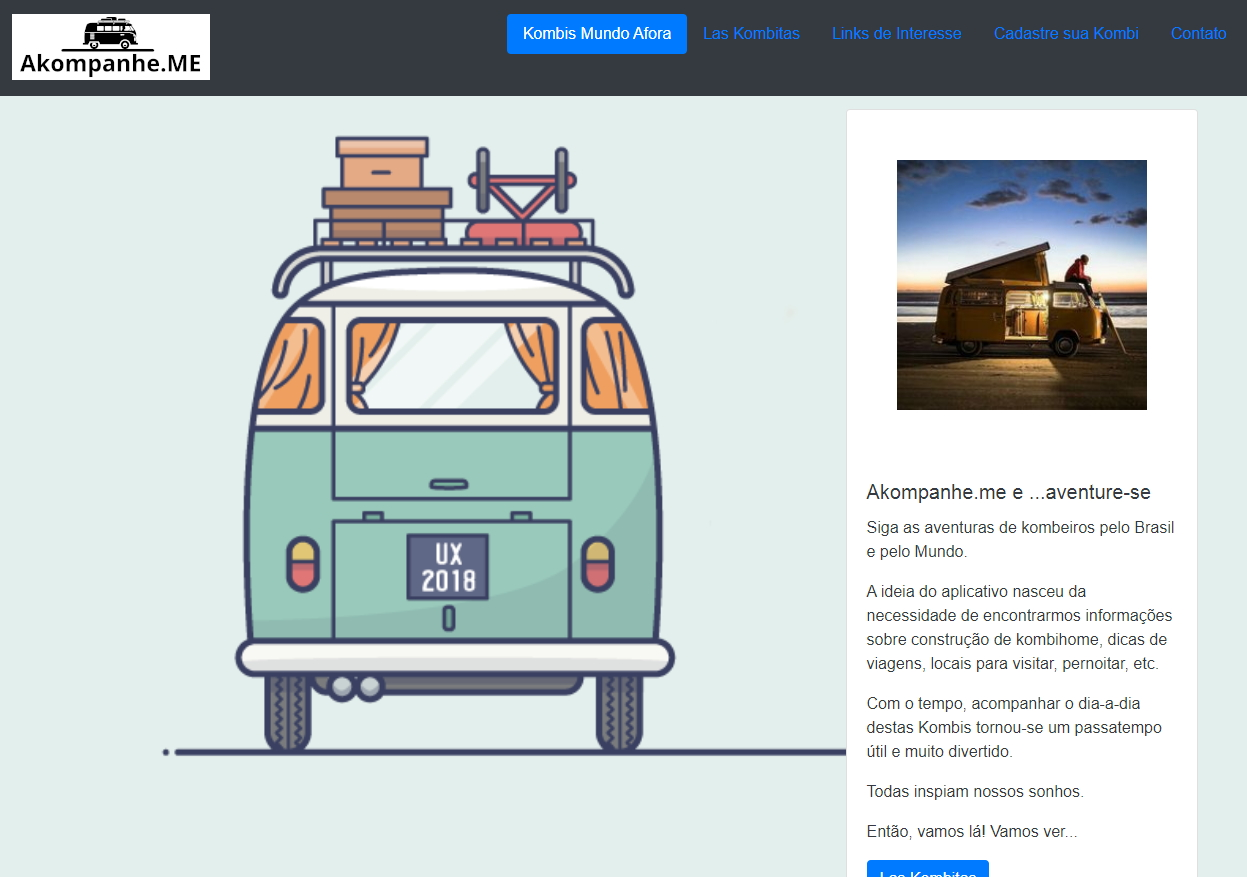
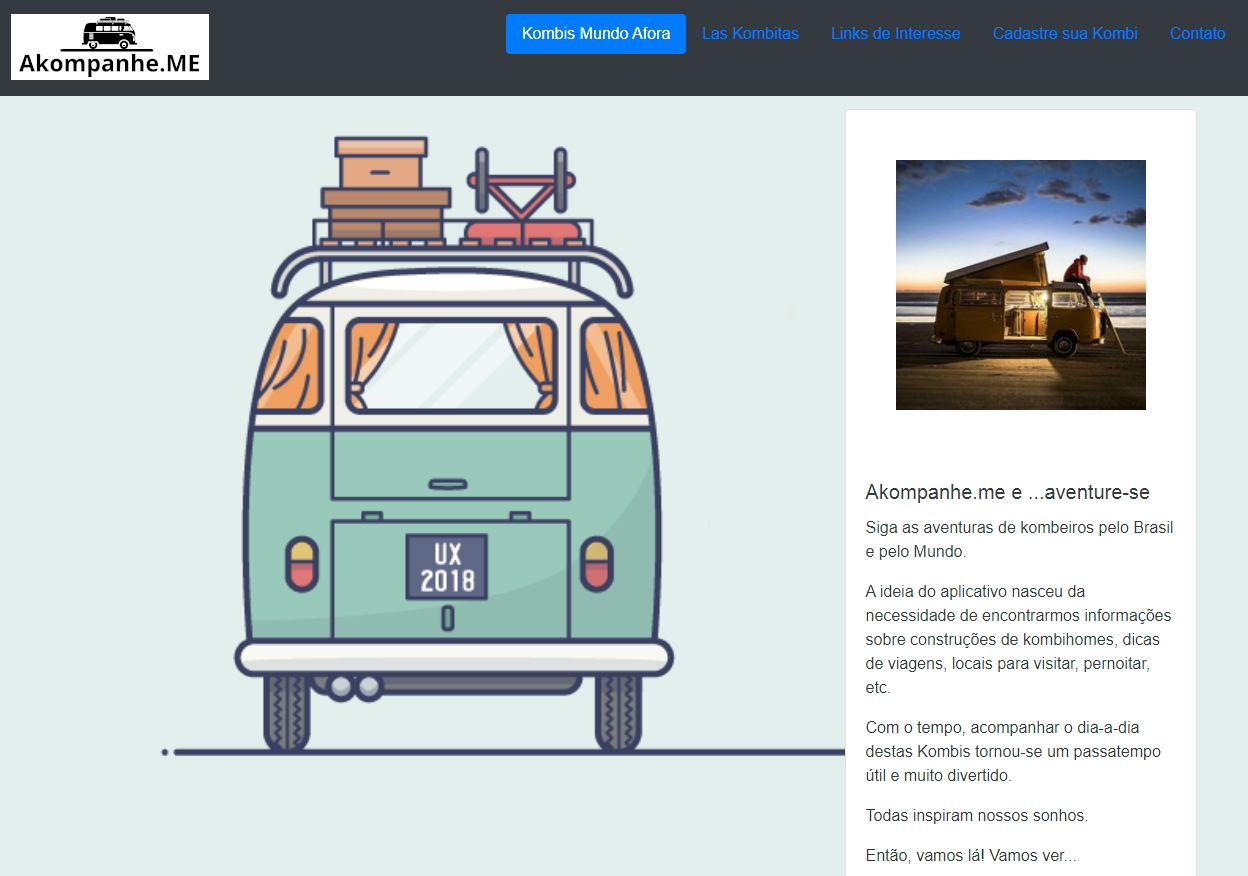
ajustes 01

diff --git a/templates/kombitas.html b/templates/kombitas.html
@@ -15,25 +15,25 @@
 			<div class="card">
 			    <img class="card-img-top" src="static/kombis/maria_maria.jpg" alt="Imagem de capa do card">
 			    <div class="card-body">
-				    <h5 class="card-title">Título do card</h5>
-				    <p class="card-text">Este é um card maior com suporte a texto embaixo, que funciona como uma introdução a um conteúdo adicional. Este conteúdo é um pouco maior, para demonstração.</p>
-				    <p class="card-text"><small class="text-muted">Atualizados 3 minutos atrás</small></p>
+				    <h5 class="card-title">Maria Maria</h5>
+				    <p class="card-text">Mussum Ipsum, cacilds vidis litro abertis. Si u mundo tá muito paradis? Toma um mé que o mundo vai girarzis! Posuere libero varius. Nullam a nisl ut ante blandit hendrerit. Aenean sit amet nisi. Interessantiss quisso pudia ce receita de bolis, mais bolis eu num gostis. Suco de cevadiss deixa as pessoas mais interessantis.</p>
+				    <button type="button" class="btn btn-primary btn-sm">Maria Maria</button>
 			    </div>
 			</div>
 			<div class="card">
 			    <img class="card-img-top" src="static/kombis/joaquina.jpg" alt="Imagem de capa do card">
 			    <div class="card-body">
-			        <h5 class="card-title">Título do card</h5>
-			        <p class="card-text">Este é um card com suporte a texto embaixo, que funciona como uma introdução a um conteúdo adicional.</p>
-			        <p class="card-text"><small class="text-muted">Atualizados 3 minutos atrás</small></p>
+			        <h5 class="card-title">Joaquina</h5>
+			        <p class="card-text">Mussum Ipsum, cacilds vidis litro abertis. Paisis, filhis, espiritis santis. Interessantiss quisso pudia ce receita de bolis, mais bolis eu num gostis. Suco de cevadiss deixa as pessoas mais interessantis. Aenean aliquam molestie leo, vitae iaculis nisl.</p>
+			        <button type="button" class="btn btn-primary btn-sm">Joaquina</button>
 			    </div>
 			</div>
 			<div class="card">
 			    <img class="card-img-top" src="static/kombis/maria_antonia.jpg" alt="Imagem de capa do card">
 			    <div class="card-body">
-			        <h5 class="card-title">Título do card</h5>
-			        <p class="card-text">Este é um card maior com suporte a texto embaixo, que funciona como uma introdução a um conteúdo adicional. Este card tem o conteúdo ainda maior que o primeiro, para mostrar a altura igual, em ação.</p>
-			        <p class="card-text"><small class="text-muted">Atualizados 3 minutos atrás</small></p>
+			        <h5 class="card-title">Maria Antônia</h5>
+			        <p class="card-text">Mussum Ipsum, cacilds vidis litro abertis. In elementis mé pra quem é amistosis quis leo. Praesent malesuada urna nisi, quis volutpat erat hendrerit non. Nam vulputate dapibus. Copo furadis é disculpa de bebadis, arcu quam euismod magna. Quem num gosta di mim que vai caçá sua turmis!</p>
+			        <button type="button" class="btn btn-primary btn-sm">Maria Antônia</button>
 			    </div>
 			 </div>
 		</div>

diff --git a/templates/cadastro.html b/templates/cadastro.html
@@ -32,7 +32,7 @@
 
 					<div class="form-group">
 					    <label for="InputPassword1">Senha</label>
-					    <input type="password" class="form-control" id="exampleInputPassword1" placeholder="Senha">
+					    <input type="password" class="form-control" id="InputPassword1" placeholder="Senha">
 					</div>
 
 					<div class="form-group">
@@ -51,14 +51,21 @@
 			</div>
 		</div>
 
-	
-
-
-	
-  		<div class="card">
+		<div class="card">
   			<div class="card-body">
 			    <h2>Já somos cadastrados</h2>
-			    <p>Mussum Ipsum, cacilds vidis litro abertis. Praesent malesuada urna nisi, quis volutpat erat hendrerit non. Nam vulputate dapibus. Posuere libero varius. Nullam a nisl ut ante blandit hendrerit. Aenean sit amet nisi. Tá deprimidis, eu conheço uma cachacis que pode alegrar sua vidis. Admodum accumsan disputationi eu sit. Vide electram sadipscing et per.</p>
+			    <img class="card-img-top" src="/static/img/k_verm.jpg" style="padding: 50px;" />
+			    <p>Praesent malesuada urna nisi, quis volutpat erat hendrerit non. Nam vulputate dapibus. Posuere libero varius. Nullam a nisl ut ante blandit hendrerit. Aenean sit amet nisi. Tá deprimidis, eu conheço uma cachacis que pode alegrar sua vidis. Admodum accumsan disputationi eu sit. Vide electram sadipscing et per.</p>
+			    <div class="form-group">
+				    <label for="InputEmail1">Endereço de email</label>
+				    <input type="email" class="form-control" id="InputEmail1" aria-describedby="emailHelp" placeholder="Seu email">
+				</div>
+
+				<div class="form-group">
+				    <label for="InputPassword1">Senha</label>
+				    <input type="password" class="form-control" id="InputPassword1" placeholder="Senha">
+				</div>
+				<button type="submit" class="btn btn-primary">Entrar</button>
 			</div>
 		</div>
 	</div>

diff --git a/templates/index.html b/templates/index.html
@@ -30,9 +30,9 @@
 
 						<h5 class="card-title text-dark">Akompanhe.me e ...aventure-se</h5>
 					    <p class="text-dark card-text">Siga as aventuras de kombeiros pelo Brasil e pelo Mundo.</p>
-					    <p class="text-dark card-text">A ideia do aplicativo nasceu da necessidade de encontrarmos informações sobre construção de kombihome, dicas de viagens, locais para visitar, pernoitar, etc. </p>
+					    <p class="text-dark card-text">A ideia do aplicativo nasceu da necessidade de encontrarmos informações sobre construções de kombihomes, dicas de viagens, locais para visitar, pernoitar, etc. </p>
                         <p class="text-dark card-text">Com o tempo, acompanhar o dia-a-dia destas Kombis tornou-se um passatempo útil e muito divertido.
-					    <p class="text-dark card-text">Todas inspiam nossos sonhos.</p>
+					    <p class="text-dark card-text">Todas inspiram nossos sonhos.</p>
 					    <p class="text-dark card-text">Então, vamos lá! Vamos ver...</p>
 					    <a href="kombitas" class="btn btn-primary">Las Kombitas</a>
 					</div>

diff --git a/static/base.css b/static/base.css
@@ -1,4 +1,4 @@
-<<<<<<< HEAD
+
 body {
 	background-image: url("/static/camper2.png") !important;
 	background-repeat: no-repeat !important;
@@ -25,31 +25,3 @@ body {
 .afora p {
   color: #000;
 }
-=======
-body {
-	background-image: url("/static/camper2.png") !important;
-	background-repeat: no-repeat !important;
-	background-size: 100% !important;
-	font-family: "roboto", "arial", sans-serif; 
-
-}
-
-.col-2 {
-	display: flex;
-	position: relative !important;
-
-}
-
-.container {
-	padding: 5px 0px 5px 0px !important;
-	color: #fff;
-}
-
-.nave-logo {
-	display: table;
-}
-
-.afora p {
-  color: #000;
-}
->>>>>>> d792da2c08d6d0d3c7209c2d7f9ad1bc4943b1b9

diff --git a/static/cadastro.css b/static/cadastro.css
@@ -1,7 +1,15 @@
+body {
+	background-color: #FF5555 !important;
+	font-family: "roboto", "arial", sans-serif; 
+}
 
+.card-deck {
+	padding: 20px 40px 20px 40px;
+}
 
-.card {
-	margin: 20px 0px 0px 30px;
+.row {
+	background-color: #FF5555 !important;
+	font-family: "roboto", "arial", sans-serif; 
 }
 
 

diff --git a/static/kombitas.css b/static/kombitas.css
@@ -1,12 +1,12 @@
 
 body {
-	background-color: #ff6666 !important;
+	background-color: #EFE2AD!important;
 	font-family: "roboto", "arial", sans-serif; 
 
 }
 
 .container {
-	background-color: #ff6666 !important;
+	background-color: #EFE2AD !important;
 }
 
 .card-deck {
